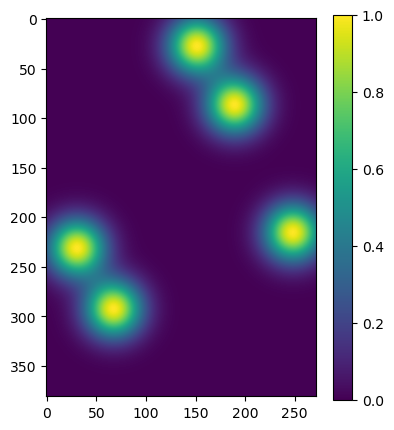
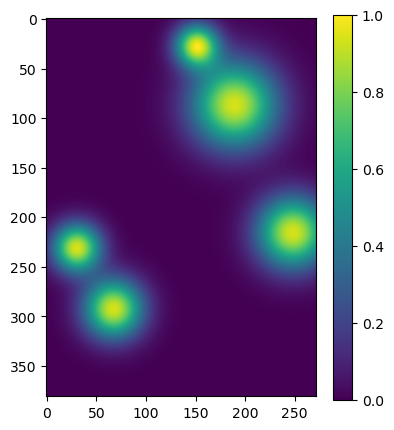
use clear example with different sigmas

Changed region(s): [[0.3655, 0.0302, 0.8223, 0.6651], [0.1218, 0.4837, 0.3046, 0.6651], [0.2437, 0.6651, 0.335, 0.7558]]

diff --git a/examples.py b/examples.py
@@ -12,7 +12,7 @@ np.random.seed(152872)
 
 face = Image.open(op.join('img', 'face.png'))
 
-face1, mask, mu_x, mu_y, sigma = bubbles.bubbles_mask(im=face, sigma=[20,20,20,20,20], bg=127)
+face1, mask, mu_x, mu_y, sigma = bubbles.bubbles_mask(im=face, sigma=[17, 19, 20.84, 25, 30], bg=127)
 
 print(mu_x)
 print(mu_y)

diff --git a/README.md b/README.md
@@ -14,11 +14,11 @@ import os.path as op
 from PIL import Image
 ```
 
-`bubbles_mask()` is the main function, which generates and applies a mask with `len(sigma)` bubbles to a PIL image. By default, these will be positioned randomly. Here, we add 5 bubbles, all of sigma=20 to an image of a face on grey background.
+`bubbles_mask()` is the main function, which generates and applies a mask with `len(sigma)` bubbles to a PIL image. By default, these will be positioned randomly. Here, we add 5 bubbles, of various sigmas, to an image of a face on grey background.
 
 ```python
 face = Image.open(op.join('img', 'face.png'))
-face1, mask, mu_x, mu_y, sigma = bubbles.bubbles_mask(im=face, sigma=[20,20,20,20,20], bg=127)
+face1, mask, mu_x, mu_y, sigma = bubbles.bubbles_mask(im=face, sigma=[17, 19, 20.84, 25, 30], bg=127)
 
 face.show(); face1.show()
 ```
@@ -59,7 +59,7 @@ print(sigma)
 ```
 
 ```
-[20, 20, 20, 20, 20]
+[17, 19, 20.84, 25, 30]
 ```
 
 ## Specifying Bubble Locations
